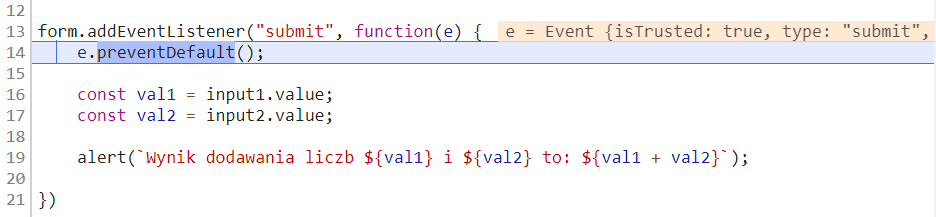
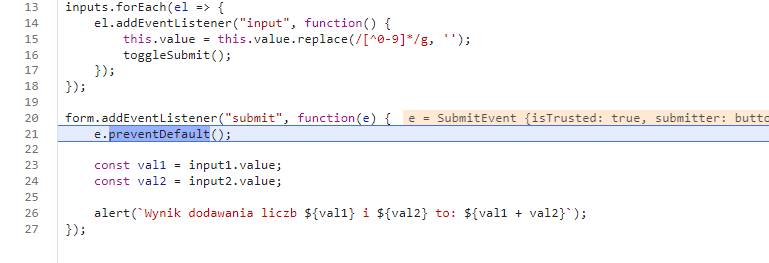
poprawienie zadania 2 z debuggera

diff --git a/1-debugger/2-zadanie/css/main.css b/1-debugger/2-zadanie/css/main.css
@@ -1,36 +1,66 @@
+body {
+    font-family: sans-serif;
+    padding: 50px;
+    background: #eee;
+}
+
 p {
     margin-bottom: 30px;
 }
+
 .form {
-    display: flex;
+    background: #fff;
+    border-radius: 5px;
+    display: inline-flex;
+    gap: 20px;
+    padding: 20px;
+    border: 1px solid #eee;
 }
+
 .form-col {
-    margin-right: 20px;
-    min-width: 300px;
+    min-width: 200px;
     display: flex;
     flex-direction: column;
     justify-content: flex-end;
 }
+
 .form-input {
     padding: 0 10px;
-    border: 1px solid #bbb;
-    box-shadow: inset 0 2px 2px rgba(0,0,0,0.1);
+    background: #eee;
+    border-radius: 5px;
+    border: 0;
     height: 50px;
     width: 100%;
     box-sizing: border-box;
+    font-weight: bold;
 }
-.form label {
+
+.form-label {
     display: block;
     font-family: sans-serif;
     margin-bottom: 10px;
-    font-size: 13px;
+    font-size: 15px;
 }
+
 .form-btn {
     height: 50px;
-    border:0;
+    border: 0;
     color: #fff;
     border-radius: 4px;
     cursor: pointer;
     background-color: tomato;
-    box-shadow: rgba(255,99,71, 0.5) 0px 10px 40px -10px;
+    box-shadow: rgba(255, 99, 71, 0.5) 0 10px 40px -10px;
+}
+
+.form-btn[disabled] {
+    opacity: 0.5;
+    background: #aaa;
+    box-shadow: none;
+}
+
+@media (max-width: 750px) {
+    .form {
+        flex-direction: column;
+        display: flex;
+    }
 }

diff --git a/1-debugger/2-zadanie/js/other4.js b/1-debugger/2-zadanie/js/other4.js
@@ -1,11 +1,19 @@
 const input1 = document.querySelector('#nr1');
 const input2 = document.querySelector('#nr2');
 const form = document.querySelector("form");
+const btn = form.querySelector(".form-submit");
+const inputs = [input1, input2];
 
-[input1, input2].forEach(el => {
+function toggleSubmit() {
+    btn.disabled = [...inputs].some(input => input.value === "")
+}
+
+toggleSubmit();
+
+inputs.forEach(el => {
     el.addEventListener("input", function() {
-        const newVal = this.value.replace(/[^0-9]*/g, '');
-        this.value = newVal
+        this.value = this.value.replace(/[^0-9]*/g, '');
+        toggleSubmit();
     });
 });
 
@@ -16,5 +24,4 @@ form.addEventListener("submit", function(e) {
     const val2 = input2.value;
 
     alert(`Wynik dodawania liczb ${val1} i ${val2} to: ${val1 + val2}`);
-
 });

diff --git a/1-debugger/2-zadanie/index.html b/1-debugger/2-zadanie/index.html
@@ -21,15 +21,15 @@
         </p>
         <form class="form">
             <div class="form-col">
-                <label for="nr1">Wpisz pierwszą liczbę</label>
+                <label class="form-label" for="nr1">Wpisz pierwszą liczbę</label>
                 <input type="text" id="nr1" class="form-input">
             </div>
             <div class="form-col">
-                <label for="nr2">Wpisz drugą liczbę</label>
+                <label class="form-label" for="nr2">Wpisz drugą liczbę</label>
                 <input type="text" id="nr2" class="form-input">
             </div>
             <div class="form-col">
-                <button type="submit" class="form-btn">Dodaj</button>
+                <button type="submit" class="form-btn form-submit">Dodaj</button>
             </div>
         </form>
 

diff --git a/1-debugger/2-zadanie/README.md b/1-debugger/2-zadanie/README.md
@@ -8,29 +8,31 @@ Na naszej stronie znajduje się prosty formularz, który dodaje 2 liczby.
 Niestety nie działa on najlepiej, bo wynik nie jest prawidłowy.
 
 Jak otworzysz HTML, zobaczysz, że do naszej strony dodano kilka oddzielnych plików JS.
-Żeby naprawić kod formularza, musimy sprawdzić w którym pliku on się znajduje.
+Żeby naprawić kod formularza, musimy sprawdzić, w którym pliku on się znajduje.
 
 Przejdź do zakładki Sources w debugerze. Po prawej stronie na dole będziesz miał opcję **Event Listener Breakpoints**.
 
-Formularz odpala skrypt przy swojej wysyłce. Jest to zdarzenie Submit. Dodajmy zatrzymywanie wykonywania skryptu jeżeli przeglądarka wykryje takie zdarzenie.
-Zaznacz więc zdarzenie Submit - mieści się ono w grupie **Control**.
+Formularz odpala skrypt przy swojej wysyłce. Jest to zdarzenie Submit. Dodajmy zatrzymywanie wykonywania skryptu, jeżeli przeglądarka wykryje takie zdarzenie.
+Zaznacz więc zdarzenie Submit. Mieści się ono w grupie **Control**.
+
+![](./_readme/event-submit.png)
 
 Spróbuj jeszcze raz wypełnić formularz i go wysłać.
 
-Skrypt powinien zatrzymać się w odpowiedniej funkcji (strona przyciemniała, pojawiła się ikonka play na jej śrdoku, a sam skrypt powinien zatrzymać się w odpowiedniej linii)
+Skrypt powinien zatrzymać się w odpowiedniej linijce (strona przyciemniała, pojawiła się ikonka play na środku strony)
 
 ![](./_readme/breakpoint.png)
 
-Przeanalizuj linie 12-20. Czemu ten kod wykonuje nieporawne dodawanie?
+Czemu ten kod wykonuje niepoprawne działanie?
 
-Aby to sprawdzić, postaw breakpoint w linii 18 klikając na numer linii 18. Kliknij ikonkę Resume (prawy górny róg zakładki lub klawisz F8).
+Aby to sprawdzić, postaw breakpoint w linii z funkcją `alert(...)` klikając w numer linii. Kliknij ikonkę Resume (prawy górny róg zakładki lub klawisz F8).
 
-Skrypt powinien zatrzymać się we wskazanym przez nas miejscu. W tym momencie możesz kursorem najeżdżać na wcześniejsze zmienne by zobaczyć ich wartość. Przy niektórych zmiennych dodatkowo debuger powinien pokazać ich wartość.
+Skrypt powinien zatrzymać się we wskazanym przez ciebie miejscu. W tym powinieneś też widzieć wartości niektórych zmiennych. Możesz też najechać kursorem na zmienne z wcześniejszych linii kodu, aby zobaczyć ich wartość. 
 
 ![](./_readme/breakpoint2.png)
 
-Widzisz w czym jest problem? Wartości pobrane z pól są typu tekstowego, a powinny być numerami.
-Wiedząc w którym pliku się znajdujemy oraz w której linijce kod działa niepoprawnie napraw jego działanie.
+Widzisz, w czym jest problem? Wartości pobrane z pól są typu zawsze tekstowego.
+Wiedząc, w którym pliku się znajdujemy, oraz w której linijce kod działa niepoprawnie napraw jego działanie.
 
 
 ## Materiały:
